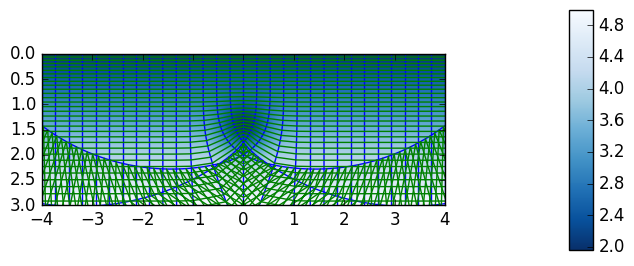
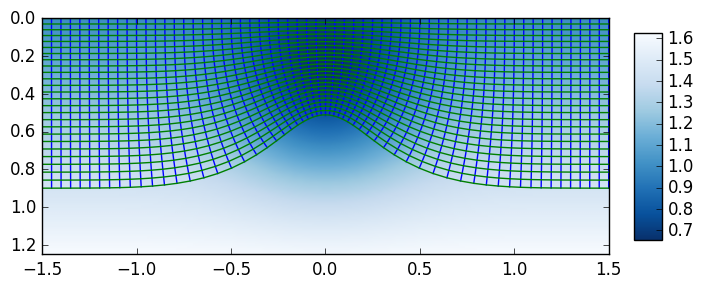
Model associated with current draft of the GMIG paper

diff --git a/TRIP_replica_example.py b/TRIP_replica_example.py
@@ -1,10 +1,16 @@
 import numpy as np
 import matplotlib.pyplot as plt
+import scipy.io as sio
 from raytracer import raytracer
 
 def c(x):
-	return (2.0 + x[1]
-			- 1.5 * np.exp( -4.0 * ((x[0] * x[0]) + (x[1] - 1.5) * (x[1] - 1.5))))
+	#return (1.0+0.5*x[1]-0.75*np.exp(-4.0*((x[0]*x[0])+(x[1]-0.75)*(x[1]-0.75))))
+	#return (1.0+0.15*np.cos( 0.5*np.pi*x[0] + 1.5*np.pi*x[1]))
+	#return (1.0 + x[1])
+	#return 1.0+0.25*np.exp(-4.0*((x[1]-0.5)*(x[1]-0.5)))
+	#return 1.0+0.5*np.exp(-64.0*((x[1]-0.5)*(x[1]-0.5)))
+	#return 1.0 - 0.5* np.exp(-16.0*((x[0]*x[0]) + (x[1]-0.5)*(x[1]-0.5)));
+	return 1.0 + 0.5*x[1] - 0.5*np.exp(-4.0*x[0]*x[0] - 4.0*(x[1]-0.375)*(x[1]-0.375));
 
 rt = raytracer(c,2)
 
@@ -19,7 +25,7 @@ def plot_background(xlo, xhi, ylo, yhi, nx, ny):
 	zz = np.flipud(zz.T)
 	fig, ax = plt.subplots()
 	cax = ax.imshow(zz, extent=[xlo, xhi, ylo, yhi], cmap = plt.get_cmap('Blues_r'));
-	fig.colorbar(cax,  shrink=.5, pad=.2, aspect=10)
+	fig.colorbar(cax, fraction=0.046, pad=0.04, aspect=7.25)
 	ax.axis([xlo, xhi, ylo, yhi]);
 	ax.set_ylim([yhi, ylo]);
 	return fig, ax
@@ -86,19 +92,34 @@ def add_isochrones_to_plot(fig, ax, data, n_steps, stride):
 		ax.plot(x_level, y_level, c='g')
 
 if __name__ == '__main__':
-	fig,ax = plot_background(-4.0, 4.0, 0.0, 3.0, 100,100);	
-	data = add_normals_to_plot(fig, ax, 2.0, 31, 200, -4.0, 4.0);
-	add_isochrones_to_plot(fig, ax, data, 200, 3);
-	fig.savefig('./img/TRIP_BNC.png', bbox_inches='tight')
+	fig,ax = plot_background(-2.0, 2.0, 0.0, 1.25, 100,100);	
+	fig.savefig('./img/TRIP_model.png', bbox_inches='tight')
 
-	x0 = np.array([-3.5, 0.0]);
-	xi0 = np.array([1, 1.25]);
-	T = 4.0;
-	n_rays = 31;
+	fig,ax = plot_background(-1.5, 1.5, 0.0, 1.25, 100, 100);	
+	T = .75
+	n_rays = 61
+	n_steps = 101
+	data = add_normals_to_plot(fig, ax, T, n_rays, n_steps, -1.5, 1.5);
+	
+	# # save:
+	# x_rt = np.zeros((n_steps, n_rays))
+	# y_rt = np.zeros((n_steps, n_rays))
+	# for i, datum in enumerate(data):
+	# 	x_rt[:,i] = datum['xs'][:,0];
+	# 	y_rt[:,i] = datum['xs'][:,1];		
+	# sio.savemat('./coords.mat', {'x_rt' : x_rt, 'y_rt' : y_rt})
+
+	add_isochrones_to_plot(fig, ax, data, n_steps, 4);
+	fig.savefig('./img/TRIP_BNC.png', bbox_inches='tight')
+	
+	x0 = np.array([-.85, 0.0]);
+	#xi0 = np.array([1, 1.25]);
+	T = 2.0;
+	n_rays = 11;
 	n_steps = 100;
-	theta_lo, theta_hi =  0.7, 1.15
-	fig,ax = plot_background(-4.0, 4.0, 0.0 ,3.0,100,100);
+	theta_lo, theta_hi =  np.pi/6, np.pi/3
+	fig,ax = plot_background(-1.5, 1.5, 0.0, 1.25, 100, 100);
 	data = add_fan_to_plot(fig, ax, x0, T, n_rays, n_steps, theta_lo, theta_hi)
-	fig.savefig('./img/TRIP_Reeplica.png', bbox_inches='tight')
+	fig.savefig('./img/TRIP_Replica.png', bbox_inches='tight')
 
 	plt.show();
